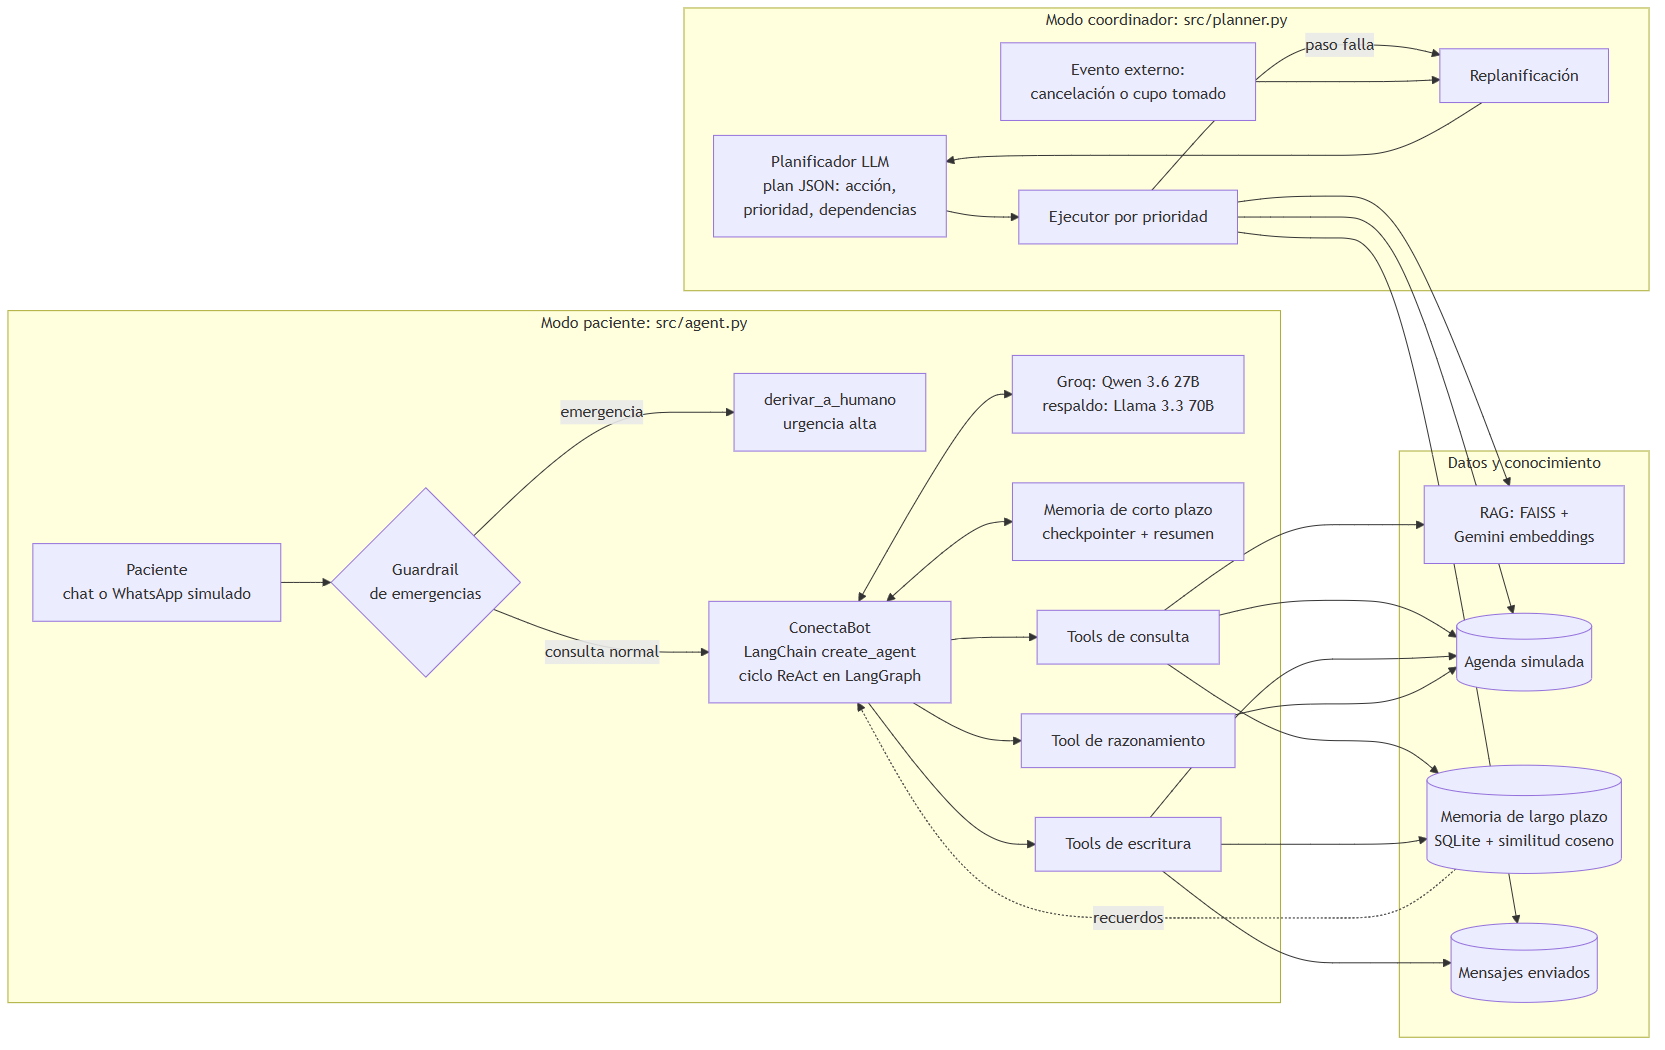
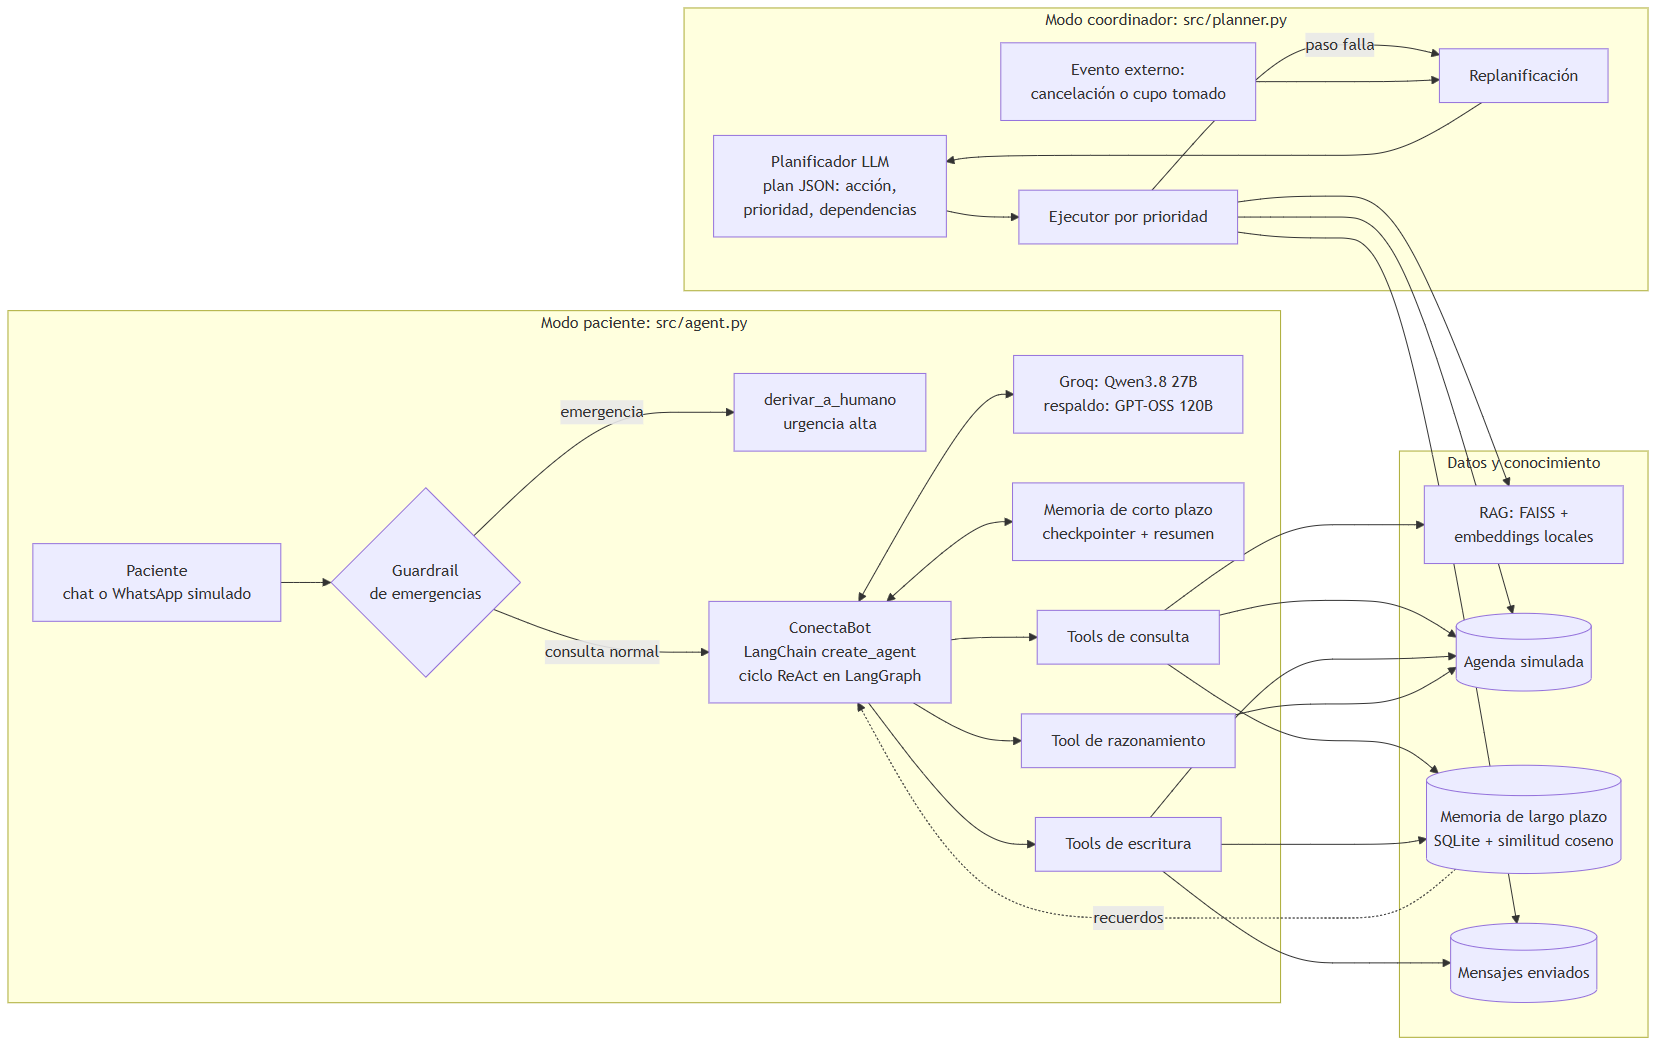
Groq qwen3.8-27b, embeddings locales por defecto y FAISS en bytes
- qwen/qwen3.6-27b y llama-3.3 ya no están en Groq: se usa qwen/qwen3.8-27b
  con respaldo openai/gpt-oss-120b.
- Gemini devuelve 403 para el proyecto de la clave: los embeddings pasan a
  FastEmbed local (paraphrase-multilingual-MiniLM-L12-v2); Gemini queda
  opcional con EMBEDDINGS_PROVIDER=gemini.
- FAISS (C++) no abre rutas con tildes en Windows: el índice se guarda y se
  carga como bytes desde Python.
- La demo mide la latencia por consulta.

diff --git a/src/config.py b/src/config.py
@@ -10,11 +10,15 @@ load_dotenv(RAIZ / ".env")
 DATA = RAIZ / "data"
 DOCS_RAG = DATA / "docs_rag"
 RUNTIME = DATA / "runtime"          # estado generado al ejecutar (agenda, memoria, logs)
-FAISS_DIR = RAIZ / "faiss_index"
-
-MODELO_LLM = os.getenv("GROQ_MODEL", "qwen/qwen3.6-27b")
-MODELO_RESPALDO = os.getenv("GROQ_MODEL_FALLBACK", "llama-3.3-70b-versatile")
+MODELO_LLM = os.getenv("GROQ_MODEL", "qwen/qwen3.8-27b")
+MODELO_RESPALDO = os.getenv("GROQ_MODEL_FALLBACK", "openai/gpt-oss-120b")
 MODELO_EMBEDDINGS = os.getenv("GOOGLE_EMBEDDING_MODEL", "gemini-embedding-001")
+
+# Embeddings: "local" (FastEmbed, sin API ni clave; por defecto) o "gemini" (API de Google, como en la EP1).
+# Cada proveedor tiene su propio índice FAISS porque los vectores no son compatibles entre sí.
+PROVEEDOR_EMBEDDINGS = os.getenv("EMBEDDINGS_PROVIDER", "local").lower()
+MODELO_EMBEDDINGS_LOCAL = "sentence-transformers/paraphrase-multilingual-MiniLM-L12-v2"
+FAISS_DIR = RAIZ / ("faiss_index_local" if PROVEEDOR_EMBEDDINGS == "local" else "faiss_index")
 
 
 def crear_llm(modelo: str | None = None, temperatura: float = 0.1):
@@ -33,7 +37,14 @@ def crear_llm(modelo: str | None = None, temperatura: float = 0.1):
 
 
 def crear_embeddings():
-    """Embeddings de Gemini (768 dimensiones), los mismos con que se construyó el índice FAISS."""
+    """Gemini (768 dimensiones, índice de la EP1) o modelo local multilingüe (384 dimensiones)."""
+    if PROVEEDOR_EMBEDDINGS == "local":
+        from langchain_community.embeddings import FastEmbedEmbeddings
+
+        # Caché en una ruta corta (raíz de la unidad): Windows falla con rutas de más de 260 caracteres.
+        cache = os.getenv("FASTEMBED_CACHE", str(Path(RAIZ.anchor) / "modelos-ia"))
+        return FastEmbedEmbeddings(model_name=MODELO_EMBEDDINGS_LOCAL, cache_dir=cache)
+
     from langchain_google_genai import GoogleGenerativeAIEmbeddings
 
     return GoogleGenerativeAIEmbeddings(

diff --git a/src/rag_engine.py b/src/rag_engine.py
@@ -6,7 +6,9 @@ from langchain_community.document_loaders import DirectoryLoader, PyPDFDirectory
 from langchain_community.vectorstores import FAISS
 from langchain_text_splitters import RecursiveCharacterTextSplitter
 
-from src.config import DOCS_RAG, FAISS_DIR, crear_embeddings
+from src.config import DOCS_RAG, FAISS_DIR, PROVEEDOR_EMBEDDINGS, crear_embeddings
+
+INDICE = FAISS_DIR / "indice_ep2.bin"
 
 
 def build_vectorstore():
@@ -21,10 +23,13 @@ def build_vectorstore():
     text_splitter = RecursiveCharacterTextSplitter(chunk_size=350, chunk_overlap=50)
     chunks = text_splitter.split_documents(documents)
 
-    print(f"Generando embeddings con Google Gemini para {len(chunks)} fragmentos...")
+    print(f"Generando embeddings ({PROVEEDOR_EMBEDDINGS}) para {len(chunks)} fragmentos...")
     vectorstore = FAISS.from_documents(chunks, crear_embeddings())
-    vectorstore.save_local(str(FAISS_DIR))
-    print("Base de datos vectorial creada y guardada en faiss_index/.")
+    # Se guarda como bytes desde Python: el save_local de FAISS (C++) falla en Windows
+    # cuando la ruta tiene tildes (ej. "Evaluación").
+    FAISS_DIR.mkdir(parents=True, exist_ok=True)
+    INDICE.write_bytes(vectorstore.serialize_to_bytes())
+    print(f"Base de datos vectorial creada y guardada en {INDICE.relative_to(FAISS_DIR.parent)}.")
     return vectorstore
 
 
@@ -34,7 +39,8 @@ _vectorstore = None
 def cargar_vectorstore():
     global _vectorstore
     if _vectorstore is None:
-        _vectorstore = FAISS.load_local(str(FAISS_DIR), crear_embeddings(), allow_dangerous_deserialization=True)
+        _vectorstore = FAISS.deserialize_from_bytes(INDICE.read_bytes(), crear_embeddings(),
+                                                    allow_dangerous_deserialization=True)
     return _vectorstore
 
 

diff --git a/src/demo.py b/src/demo.py
@@ -7,11 +7,14 @@
 """
 import argparse
 import sys
+import time
 
 from colorama import Fore, Style
 
 from src.agenda import obtener_agenda
 from src.memoria import obtener_memoria
+
+LATENCIAS: list[float] = []
 
 
 def titulo(n: int, texto: str, condicion: str):
@@ -21,8 +24,12 @@ def titulo(n: int, texto: str, condicion: str):
 
 def turno(bot, paciente: str, mensaje: str, sesion: str = "1"):
     print(f"\n{Fore.GREEN}{Style.BRIGHT}{paciente}:{Style.RESET_ALL} {mensaje}")
+    inicio = time.perf_counter()
     respuesta = bot.chatear(paciente, mensaje, sesion)
+    segundos = time.perf_counter() - inicio
+    LATENCIAS.append(segundos)
     print(f"{Fore.CYAN}{Style.BRIGHT}ConectaBot:{Style.RESET_ALL} {respuesta}")
+    print(f"{Style.DIM}  (latencia: {segundos:.1f} s){Style.RESET_ALL}")
 
 
 def escenario_1(bot):
@@ -61,7 +68,9 @@ def escenario_6(llm=None):
     titulo(6, "Modo coordinador: plan por prioridades y replanificación",
            "mientras corre el plan, P007 cancela su cardiología por teléfono")
     obtener_agenda().reiniciar()
+    inicio = time.perf_counter()
     ejecutar(eventos={2: evento_cancelacion("C007", "aviso telefónico: viaje de trabajo")}, llm=llm)
+    print(f"{Style.DIM}  (duración del modo coordinador: {time.perf_counter() - inicio:.1f} s){Style.RESET_ALL}")
 
 
 def main():

diff --git a/src/memoria.py b/src/memoria.py
@@ -56,8 +56,9 @@ class MemoriaLargoPlazo:
         q = self._vector(consulta)
         resultados = []
         for tipo, texto, creado, vector in filas:
-            if q is not None and vector:
-                a, b = np.array(q), np.array(json.loads(vector))
+            b = np.array(json.loads(vector)) if vector else None
+            if q is not None and b is not None and len(q) == len(b):  # mismo modelo de embeddings
+                a = np.array(q)
                 score = float(a @ b / (np.linalg.norm(a) * np.linalg.norm(b)))
                 metodo = "coseno"
             else:

diff --git a/README.md b/README.md
@@ -20,14 +20,14 @@ flowchart LR
         U[Paciente<br/>chat o WhatsApp simulado] --> G{Guardrail<br/>de emergencias}
         G -- emergencia --> H[derivar_a_humano<br/>urgencia alta]
         G -- consulta normal --> A[ConectaBot<br/>LangChain create_agent<br/>ciclo ReAct en LangGraph]
-        A <--> LLM[Groq: Qwen 3.6 27B<br/>respaldo: Llama 3.3 70B]
+        A <--> LLM[Groq: Qwen3.8 27B<br/>respaldo: GPT-OSS 120B]
         A <--> MC[Memoria de corto plazo<br/>checkpointer + resumen]
         A --> TC[Tools de consulta]
         A --> TE[Tools de escritura]
         A --> TR[Tool de razonamiento]
     end
     subgraph DAT[Datos y conocimiento]
-        RAG[RAG: FAISS +<br/>Gemini embeddings]
+        RAG[RAG: FAISS +<br/>embeddings locales]
         AG[(Agenda simulada)]
         ML[(Memoria de largo plazo<br/>SQLite + similitud coseno)]
         WA[(Mensajes enviados)]
